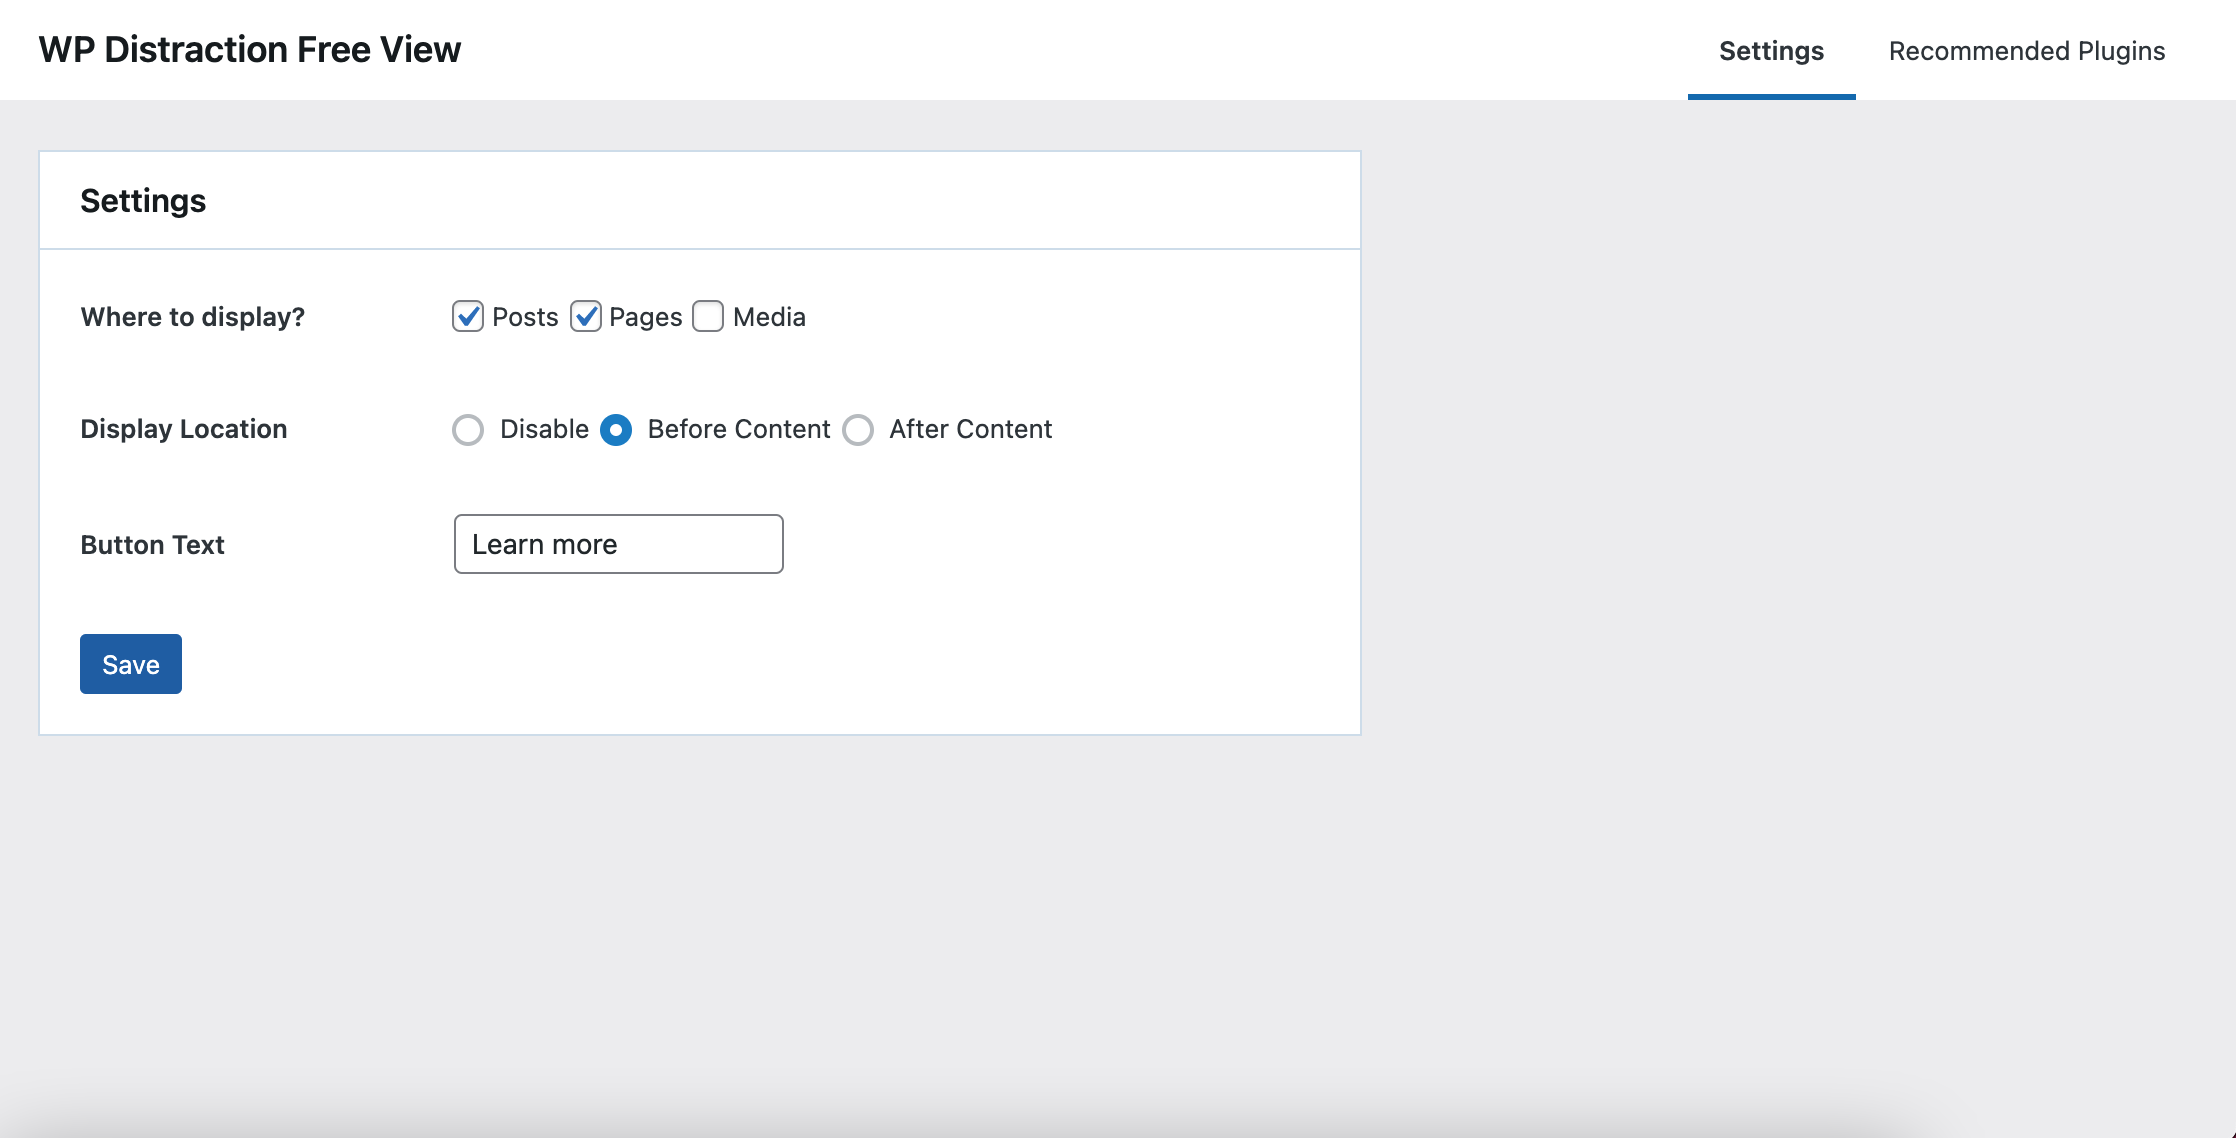
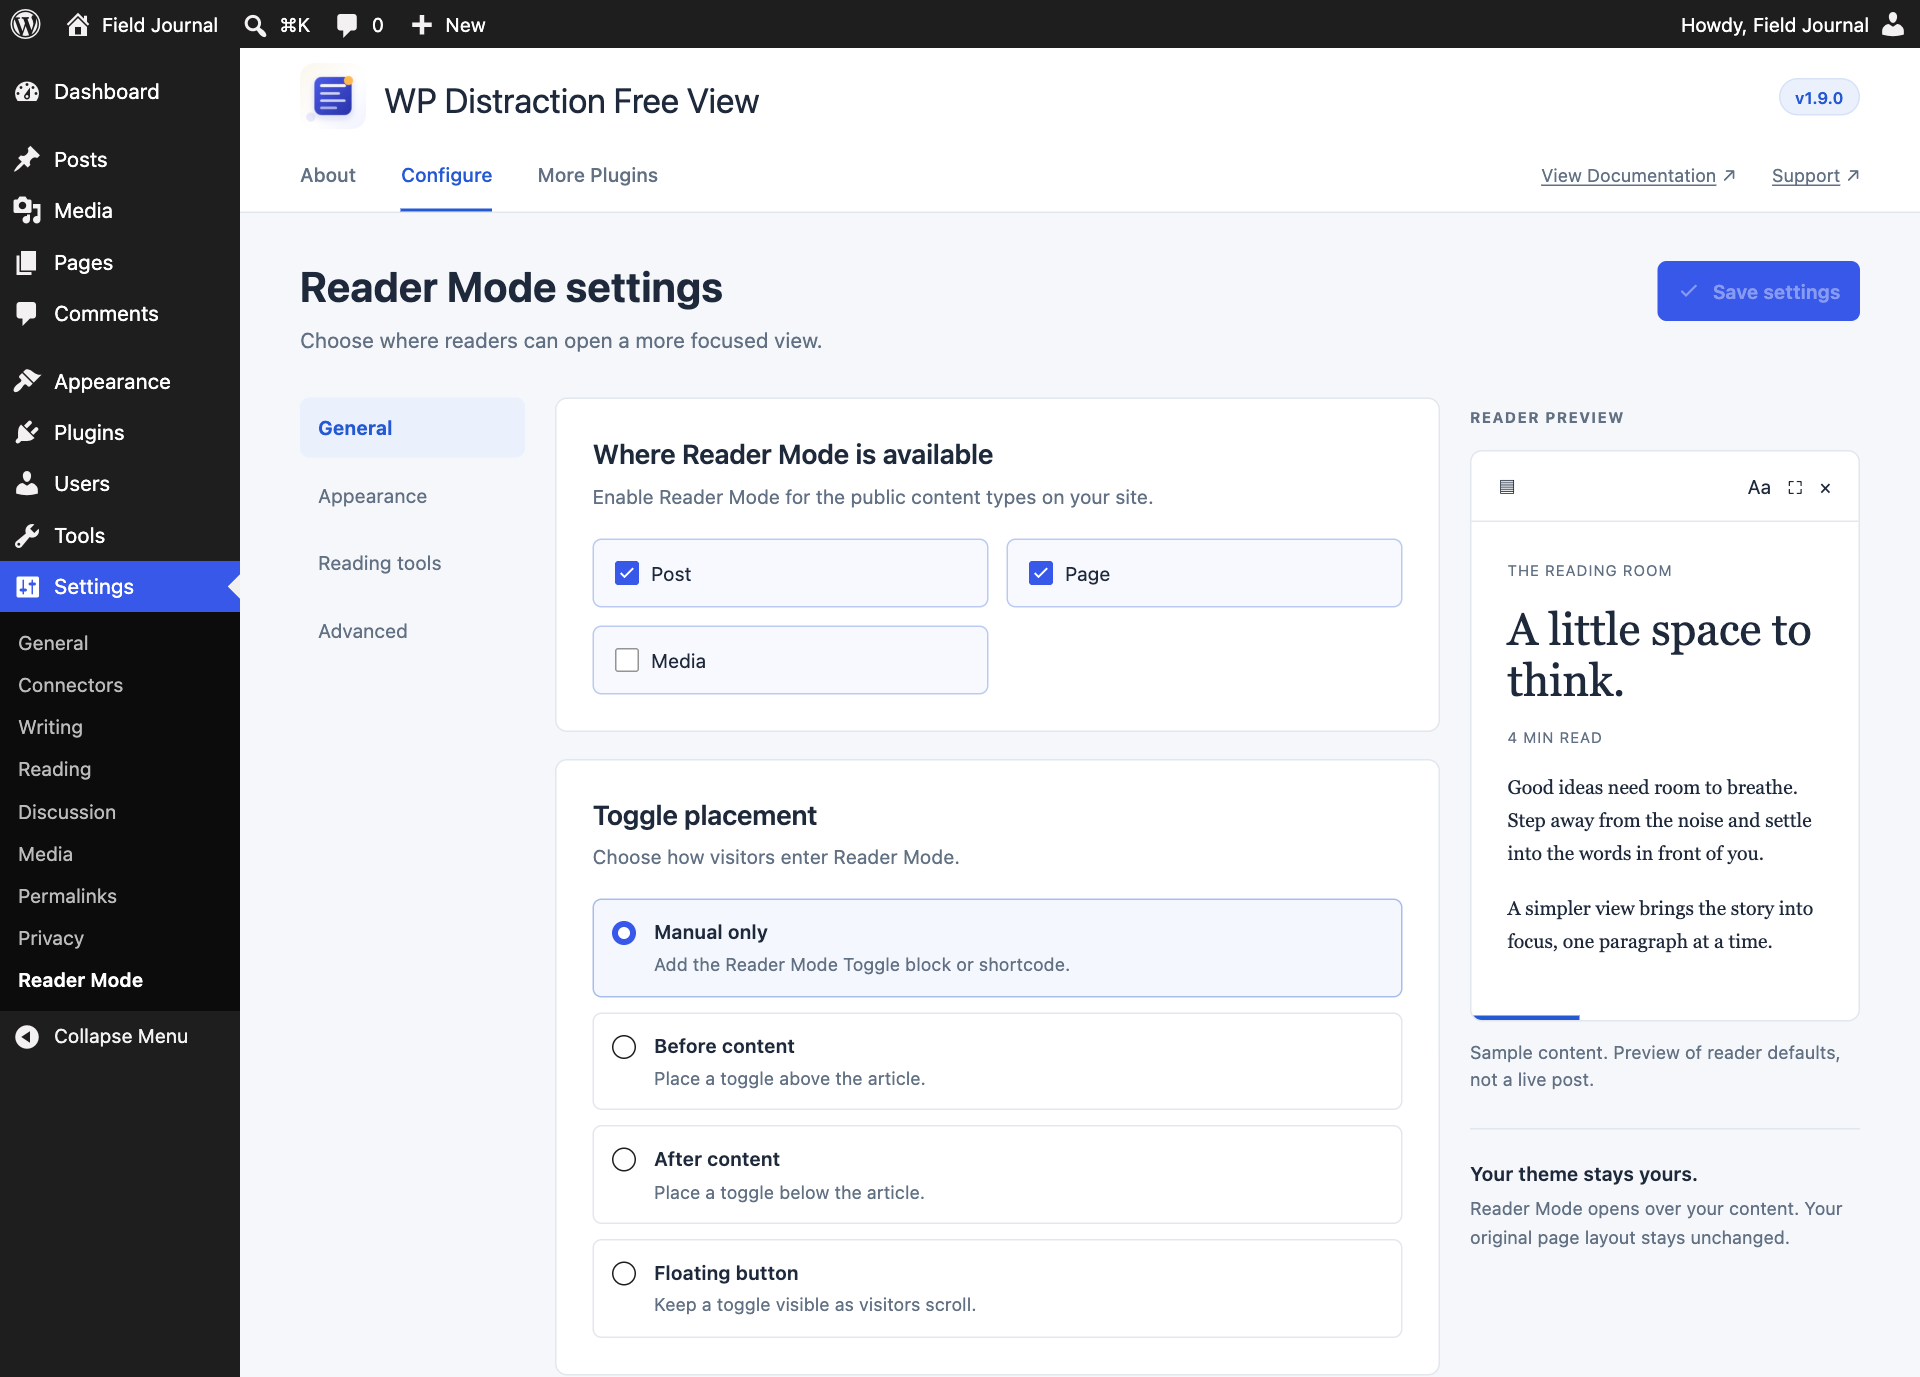
docs(listing): refresh reader screenshots and setup guidance
Show the current Configure screen, article toggle and sepia reader. Explain how to enable the same experience from a block or shortcode, and align the directory captions and contributor setup instructions.

diff --git a/README.md b/README.md
@@ -1,39 +1,37 @@
 # WP Distraction Free View
 
-WP Distraction Free View adds a clean frontend Reader Mode to WordPress, helping visitors focus on your content without sidebars, widgets, navigation, comments, and visual clutter.
+WP Distraction Free View adds a frontend Reader Mode to WordPress, giving visitors a focused reading view for posts, pages, and selected public post types.
 
 [Download WP Distraction Free View on WordPress.org](https://wordpress.org/plugins/wp-distraction-free-view/)
 
 ![WordPress version](https://img.shields.io/wordpress/plugin/v/wp-distraction-free-view.svg)
 ![WordPress Rating](https://img.shields.io/wordpress/plugin/r/wp-distraction-free-view.svg)
 ![WordPress Downloads](https://img.shields.io/wordpress/plugin/dt/wp-distraction-free-view.svg)
-[![License](https://img.shields.io/badge/license-GPL--2.0--or--later-green.svg)](https://github.com/mehul0810/wp-distraction-free-view/blob/master/license.txt)
 
-## Positioning
+## Getting Started
 
-WordPress core already includes distraction-free writing tools for the admin editor. This plugin is for the frontend visitor reading experience: posts, pages, and selected public custom post types can open in a focused Reader Mode overlay.
+1. Install and activate the plugin from the WordPress.org plugin directory.
+2. Open **Settings > Reader Mode > Configure > General**, select the post types you want to support, and save.
+3. Add a **Reader Mode Toggle** block or `[wpdfv]` shortcode to an enabled post, or choose an automatic button placement in **General**.
+4. Visit the post and select the toggle. To link directly to Reader Mode, add `reader-mode=1` to the post’s query string.
+
+New installations use manual placement. Existing installations retain their previous automatic placement setting during upgrade unless it was already disabled. If the toggle is missing, check the enabled post types and placement in **General**. See the [setup and troubleshooting guide](docs/reader-mode-setup.md) for more examples.
 
 ## Features
 
-- Frontend Reader Mode for posts, pages, and enabled public custom post types.
-- Manual placement with the Reader Mode Toggle block or the `[wpdfv]` shortcode.
-- Optional automatic toggle insertion before content, after content, or as a floating button.
-- URL activation with `?reader-mode=1` on enabled single content.
-- Visitor preferences for font size, theme, and content width from the Reader settings control in the modal header, stored in localStorage.
-- Optional reading progress and estimated reading time.
-- Block-based Reader Mode template support for full site editing themes.
-- WordPress-components settings screen and REST-backed settings persistence.
+- Reader Mode overlay for posts, pages, and enabled public custom post types, with block, shortcode, automatic button, and URL entry points.
+- Reader preferences for theme, text size, width, and content visibility, saved in the browser when available.
+- Optional progress, reading time, table of contents, resume reading, and browser read-aloud. Sharing is available when supported by the browser.
+- Per-content availability and template overrides, scoped custom CSS, and opt-in discovery metadata for integrations.
+
+Under **Configure**, use **Appearance** for defaults, **Reading tools** for optional controls, and **Advanced** for custom CSS. The [developer API guide](docs/developer-api.md) covers templates and integrations.
 
 ## Requirements
 
-- WordPress 6.0 or later
-- Tested up to WordPress 7.1.2
+- WordPress 6.0 or later, tested up to 7.1
 - PHP 8.2 or later
-- Node.js 24.15.0
-- npm 11 or later
-- Composer for PHP autoloading and development tooling
 
-The Node version is pinned in `.nvmrc` and `.node-version`.
+For development, use Node.js 24.15.0, npm 11 or later, and Composer. The Node version is pinned in `.nvmrc` and `.node-version`.
 
 ## Local Development
 
@@ -49,7 +47,7 @@ Install dependencies:
 
 ```bash
 composer install
-npm install
+npm ci
 ```
 
 Build assets:
@@ -93,53 +91,6 @@ The WordPress.org release workflow generates `wp-distraction-free-view.zip` thro
 
 CI also builds the production package from `.distignore`, validates the package shape, and runs Plugin Check against the generated package directory rather than the raw source checkout.
 
-## Settings
-
-The settings page is available at **Settings > Reader Mode**.
-
-The screen is organized into **About**, **Configure**, and **More Plugins** tabs. Reader Mode configuration lives under **Configure**.
-
-Available settings:
-
-- Enable Reader Mode for selected public post types.
-- Toggle placement: manual only, before content, after content, or floating.
-- Reading progress.
-- Estimated reading time.
-- Reader preference controls.
-- Default reader theme: light, dark, or sepia.
-- Default content width: narrow, default, or wide.
-- Default font size: small, default, or large.
-- Custom toggle label.
-- Custom exit label.
-- Reader Mode custom CSS for scoped modal styling.
-- Reader template.
-- Visitor controls to hide media, embeds, and comments in Reader Mode.
-- Optional browser read-aloud controls.
-- Per-content availability and template overrides.
-- Structured public Reader Mode content and opt-in discovery metadata.
-
-The structured-content schema and extension hooks are documented in [the developer API guide](docs/developer-api.md).
-
-Automatic insertion is disabled for new installs. Existing installs keep their previous automatic insertion behavior during upgrade unless it was already disabled.
-
-## Shortcodes
-
-Use the shortcode:
-
-```text
-[wpdfv]
-```
-
-## Blocks
-
-Use the **WP Distraction Free View / Reader Mode Toggle** block in posts, pages, public custom post types, single templates, and Query Loop templates.
-
-The block is dynamic and uses the current post context, so it opens the correct post when placed in single templates or inside Query Loop templates.
-
-## Setup and Troubleshooting
-
-For step-by-step placement guidance, URL activation, preference privacy notes, and shortcode/embed troubleshooting, see [Reader Mode Setup and Troubleshooting](docs/reader-mode-setup.md).
-
 ## Modal Templates
 
 The Reader Mode content is rendered through block-based templates. The plugin registers a default Reader Mode layout and a `WP Distraction Free View` pattern category for block themes.
@@ -148,7 +99,7 @@ Block themes and site-specific code can register additional Reader Mode template
 
 ## Reader Mode Custom CSS
 
-Administrators who can manage plugin settings and have the WordPress `edit_css` capability can add scoped CSS from **Settings > Reader Mode > Configure > Custom CSS**. The saved CSS is printed only with Reader Mode frontend assets and is attached to the plugin stylesheet handle.
+Administrators who can manage plugin settings and have the WordPress `edit_css` capability can add scoped CSS from **Settings > Reader Mode > Configure > Advanced > Custom CSS**. The saved CSS is printed only with Reader Mode frontend assets and is attached to the plugin stylesheet handle.
 
 Keep selectors scoped to Reader Mode containers:
 
@@ -218,4 +169,4 @@ This repository is for development. For user support, use the [WordPress.org sup
 - Commit `package-lock.json` whenever npm dependency metadata changes.
 - Built assets are generated into `assets/dist`.
 - Runtime plugin code uses Composer's PSR-4 autoloader. Production packages include the no-dev Composer autoload files generated from `composer.json`.
-- The plugin is licensed under GPL-2.0-or-later.
+- See the [license file](license.txt) for licensing information.
